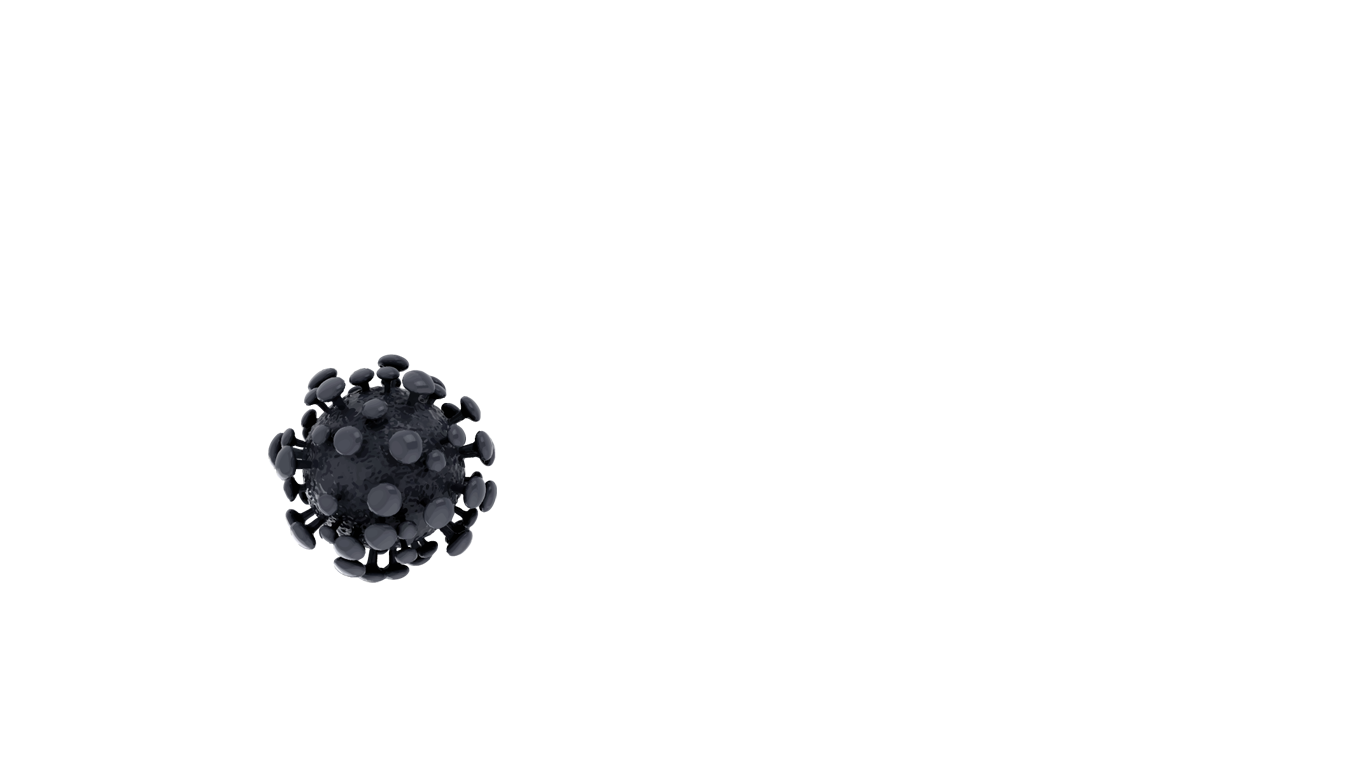
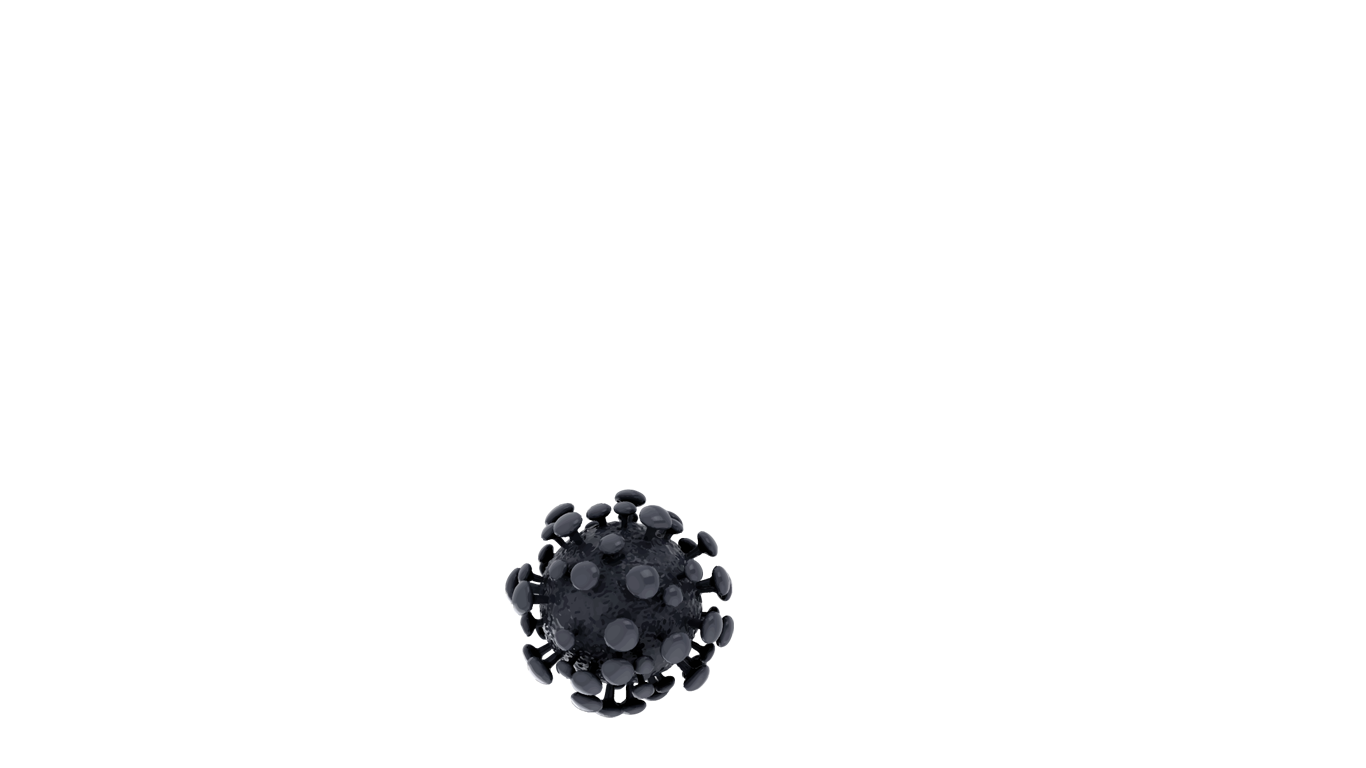
added new images, backgrounds, new fonts

Changed region(s): [[0.1845, 0.4375, 0.369, 0.7812], [0.369, 0.625, 0.5534, 0.9375]]

diff --git a/public/js/landing/script1.js b/public/js/landing/script1.js
@@ -172,7 +172,7 @@ var initMouse = function (array){
   Matter.Events.on(mouseConstraint, 'startdrag', removeInfo);
 
   // catBody category objects should not be draggable with the mouse
-  mouseConstraint.collisionFilter.mask = 0x0002 | categories.catMouse;
+  // mouseConstraint.collisionFilter.mask = 0x0002 | categories.catMouse;
 }
 
 // helpful function
@@ -294,7 +294,7 @@ var initBorders = function(){
   var borderOptions = { isStatic: true, render: { opacity: 0 }};
   var offset = 5;
   borders.push(Bodies.rectangle( w*0.5, offset, w, 10, borderOptions )); // top
-  borders.push(Bodies.rectangle( w - offset, h*0.5, 2, h, borderOptions ));
+  borders.push(Bodies.rectangle( w - offset, h, 2, h, borderOptions ));
   borders.push(Bodies.rectangle( w*0.5, h - offset, w, 8, borderOptions )); // bottom
   borders.push(Bodies.rectangle( 0 + offset, h*0.5, 2, h, borderOptions ));
 
@@ -361,5 +361,7 @@ function getRandomInt(min, max) {
     return Math.floor(Math.random() * (max - min + 1)) + min;
 }
 
-// ______________________________ F I R E
-init();
+
+setTimeout(function(){
+  init();
+}, 2000)

diff --git a/public/js/landing/landing.js b/public/js/landing/landing.js
@@ -33,3 +33,36 @@ function setSection(newSection) {
 //     onLeaveBack: (self) => self.scroll(ScrollTrigger.maxScroll(window) - 2),
 //     onLeave: (self) => self.scroll(2),
 // }).scroll(2)
+
+gsap.to(".virus1", {
+    yPercent: -15,
+    ease: "none",
+    scrollTrigger: {
+      trigger: "#virusHolder",
+      // start: "top bottom", // the default values
+      // end: "bottom top",
+      scrub: true
+    }, 
+  });
+
+gsap.to(".virus2", {
+    yPercent: -75,
+    ease: "none",
+    scrollTrigger: {
+      trigger: "#virusHolder",
+      // start: "top bottom", // the default values
+      // end: "bottom top",
+      scrub: true
+    }, 
+  });
+
+gsap.to(".virus3", {
+    yPercent: -20,
+    ease: "none",
+    scrollTrigger: {
+      trigger: "#virusHolder",
+      // start: "top bottom", // the default values
+      // end: "bottom top",
+      scrub: true
+    }, 
+  });

diff --git a/public/css/landing/landing.css b/public/css/landing/landing.css
@@ -1,5 +1,5 @@
 @import url("https://fonts.googleapis.com/css2?family=Source+Sans+Pro:ital,wght@0,200;0,300;0,400;0,600;0,700;0,900;1,200;1,300;1,400;1,600;1,700;1,900&display=swap");
-@import url(//db.onlinewebfonts.com/c/e89ef6c6a5b8dcef3a6a883d8cf7b7bf?family=Guardians);
+@import url('http://fonts.cdnfonts.com/css/greenth');
 * {
   padding: 0;
   margin: 0;
@@ -101,8 +101,8 @@ section:not(.first) {
   position: relative;
   margin: 0 auto;
   margin-right: 80%;
-  font-family: 'Guardians';
-  font-size: 4rem;
+  font-family: 'Greenth', sans-serif;
+  font-size: 5rem;
   line-height: 2.4rem;
   color: rgba(black, 1);
   display: flex;
@@ -285,4 +285,14 @@ section:not(.first) {
   100% {
     transform: scale(2.5);
   }
+}
+
+.images{
+  position: absolute;
+  width: 100%;
+  height: 100%;
+}
+
+.image-wrapper{
+  position: absolute;
 }

diff --git a/src/views/landing.html b/src/views/landing.html
@@ -114,7 +114,7 @@
                     />
                 </div>
             </section>
-            <section class="panel white">
+            <section class="panel white" id="virusHolder" style="background-image: url('../../public/images/landing/5026563.jpg'); background-size: contain;">
                 <h1>Two</h1>
                 <div class="images">
                     <div class="image-wrapper" id="first">
@@ -143,7 +143,7 @@
                     />
                 </div>
             </section>
-            <section class="panel white">
+            <section class="panel white" style="background-image: url('../../public/images/landing/img1.jpg');">
                 <h1>Three</h1>
                 <div class="gif">
                     <img
